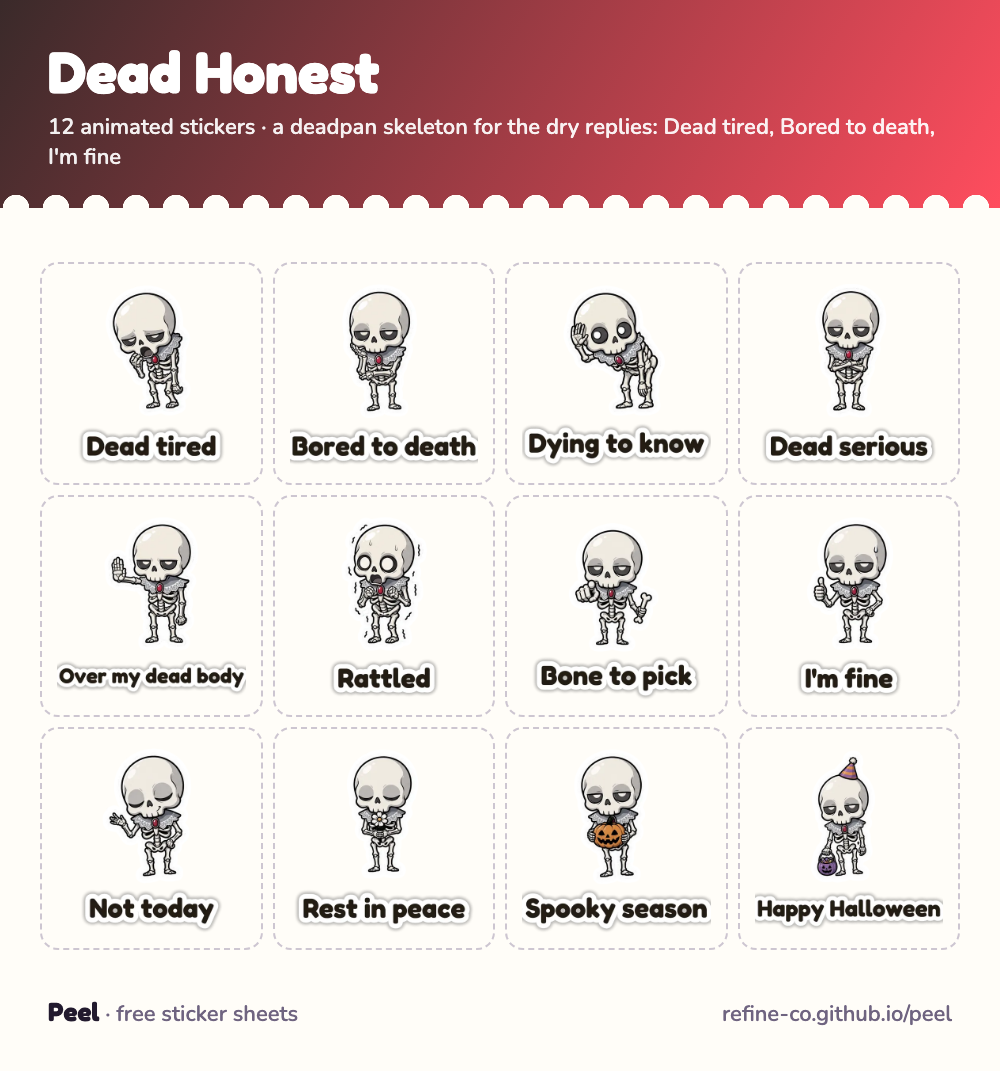
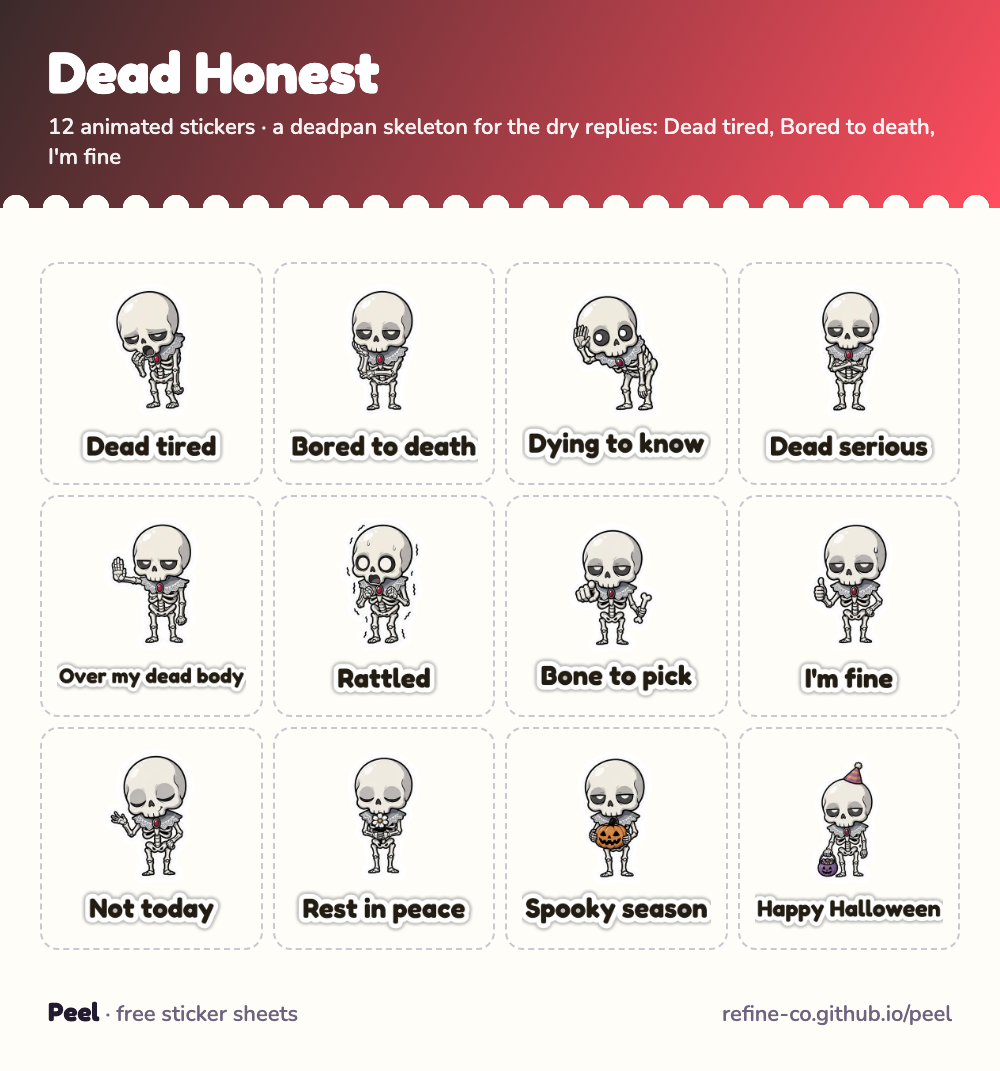
Site: a community card opens its own section, not the packs one
peel.js scrolls to the element a rail's data-anchor names when a card is
opened. The community rail had no section of its own, so it borrowed
"packs" — and every community card threw the reader back to the top of
somebody else's wheel. Reported from the S22's browser.

Its heading, note and wheel now sit inside <section id="community">, the
same shape as #packs, and the rail anchors to that.

diff --git a/packs.html b/packs.html
@@ -1199,13 +1199,14 @@
   </div>
 </section>
 
-<h2 id="s22-test-pack-h">From the community</h2>
+<section class="rail-section" id="community" aria-labelledby="community-h">
+<h2 id="community-h">From the community</h2>
 <p class="note">Packs people made in Peel and sent in. Each one is credited to whoever made it.</p>
 <!-- community-rail:start -->
 <nav class="rail-wrap" aria-label="Packs from the community">
   <p class="rail-lead">1 pack from the community. <span>Swipe to see it.</span></p>
   <button class="rail-arrow prev" type="button" aria-label="Previous pack" hidden>‹</button>
-  <div class="rail" id="rail-community" data-kind="community" data-anchor="packs" role="tablist" aria-label="Packs from the community" tabindex="0">
+  <div class="rail" id="rail-community" data-kind="community" data-anchor="community" role="tablist" aria-label="Packs from the community" tabindex="0">
     <span class="rail-end" aria-hidden="true"></span>
[1 lines of base64/hex data omitted]
     <span class="rail-end" aria-hidden="true"></span>
@@ -1213,6 +1214,7 @@
   <button class="rail-arrow next" type="button" aria-label="Next pack" hidden>›</button>
 </nav>
 <!-- community-rail:end -->
+</section>
 <section class="sheet" id="s22-test-pack" style="--c1:#503a21;--c2:#e19947">
   <div class="sheet-head">
     <h3 class="sheet-title">My pack 1</h3>

diff --git a/tools/build_sheets.py b/tools/build_sheets.py
@@ -314,7 +314,17 @@ def sheet_html(pack, files, caps, size_kb):
     # file that knows how to draw a rail. Putting the rail beside the packs rail instead left
     # two wheels stacked at the top of the page with neither one's sheets under it.
     if pack["section"] == COMMUNITY_SECTION:
-        head += f'<p class="note">{COMMUNITY_NOTE}</p>\n{RAIL_START}\n{RAIL_END}\n'
+        # Heading, note and wheel inside one element with an id, exactly like #packs. peel.js
+        # scrolls to the element a rail's data-anchor names when a card is opened; without one
+        # of its own, the community rail borrowed "packs" and every community card scrolled
+        # the reader back to the top of somebody else's section.
+        head = (
+            '<section class="rail-section" id="community" aria-labelledby="community-h">\n'
+            f'<h2 id="community-h">{COMMUNITY_SECTION}</h2>\n'
+            f'<p class="note">{COMMUNITY_NOTE}</p>\n'
+            f'{RAIL_START}\n{RAIL_END}\n'
+            '</section>\n'
+        )
     link = peel_import_link(f"packs/{slug}.peel")
     return f"""{head}<section class="sheet" id="{slug}" style="--c1:{pack['c1']};--c2:{pack['c2']}">
   <div class="sheet-head">

diff --git a/tools/build_deck.py b/tools/build_deck.py
@@ -145,13 +145,16 @@ def rail_html(items, kind):
     }.get(kind, ("pack", "Sticker packs"))
     count = len(items)
     thing = "scene" if scenes else ("pack from the community" if kind == "community" else "sticker pack")
+    # What "scroll back to the wheel" means for this rail: its own section, never a
+    # neighbour's. Getting this wrong sends a reader to the top of a different section.
+    anchor = {"scenes": "scenes", "community": "community"}.get(kind, "packs")
     lead = (f'  <p class="rail-lead">{count} {thing}{"" if count == 1 else "s"}. '
             f'<span>Swipe to see {"them all" if count != 1 else "it"}.</span></p>')
     return (
         f'<nav class="rail-wrap" aria-label="{label}">\n'
         f'{lead}\n'
         f'  <button class="rail-arrow prev" type="button" aria-label="Previous {noun}" hidden>\u2039</button>\n'
-        f'  <div class="rail" id="rail-{kind}" data-kind="{kind}" data-anchor="{"scenes" if scenes else "packs"}" '
+        f'  <div class="rail" id="rail-{kind}" data-kind="{kind}" data-anchor="{anchor}" '
         f'role="tablist" aria-label="{label}" tabindex="0">\n'
         '    <span class="rail-end" aria-hidden="true"></span>\n'
         f'{body}\n'
